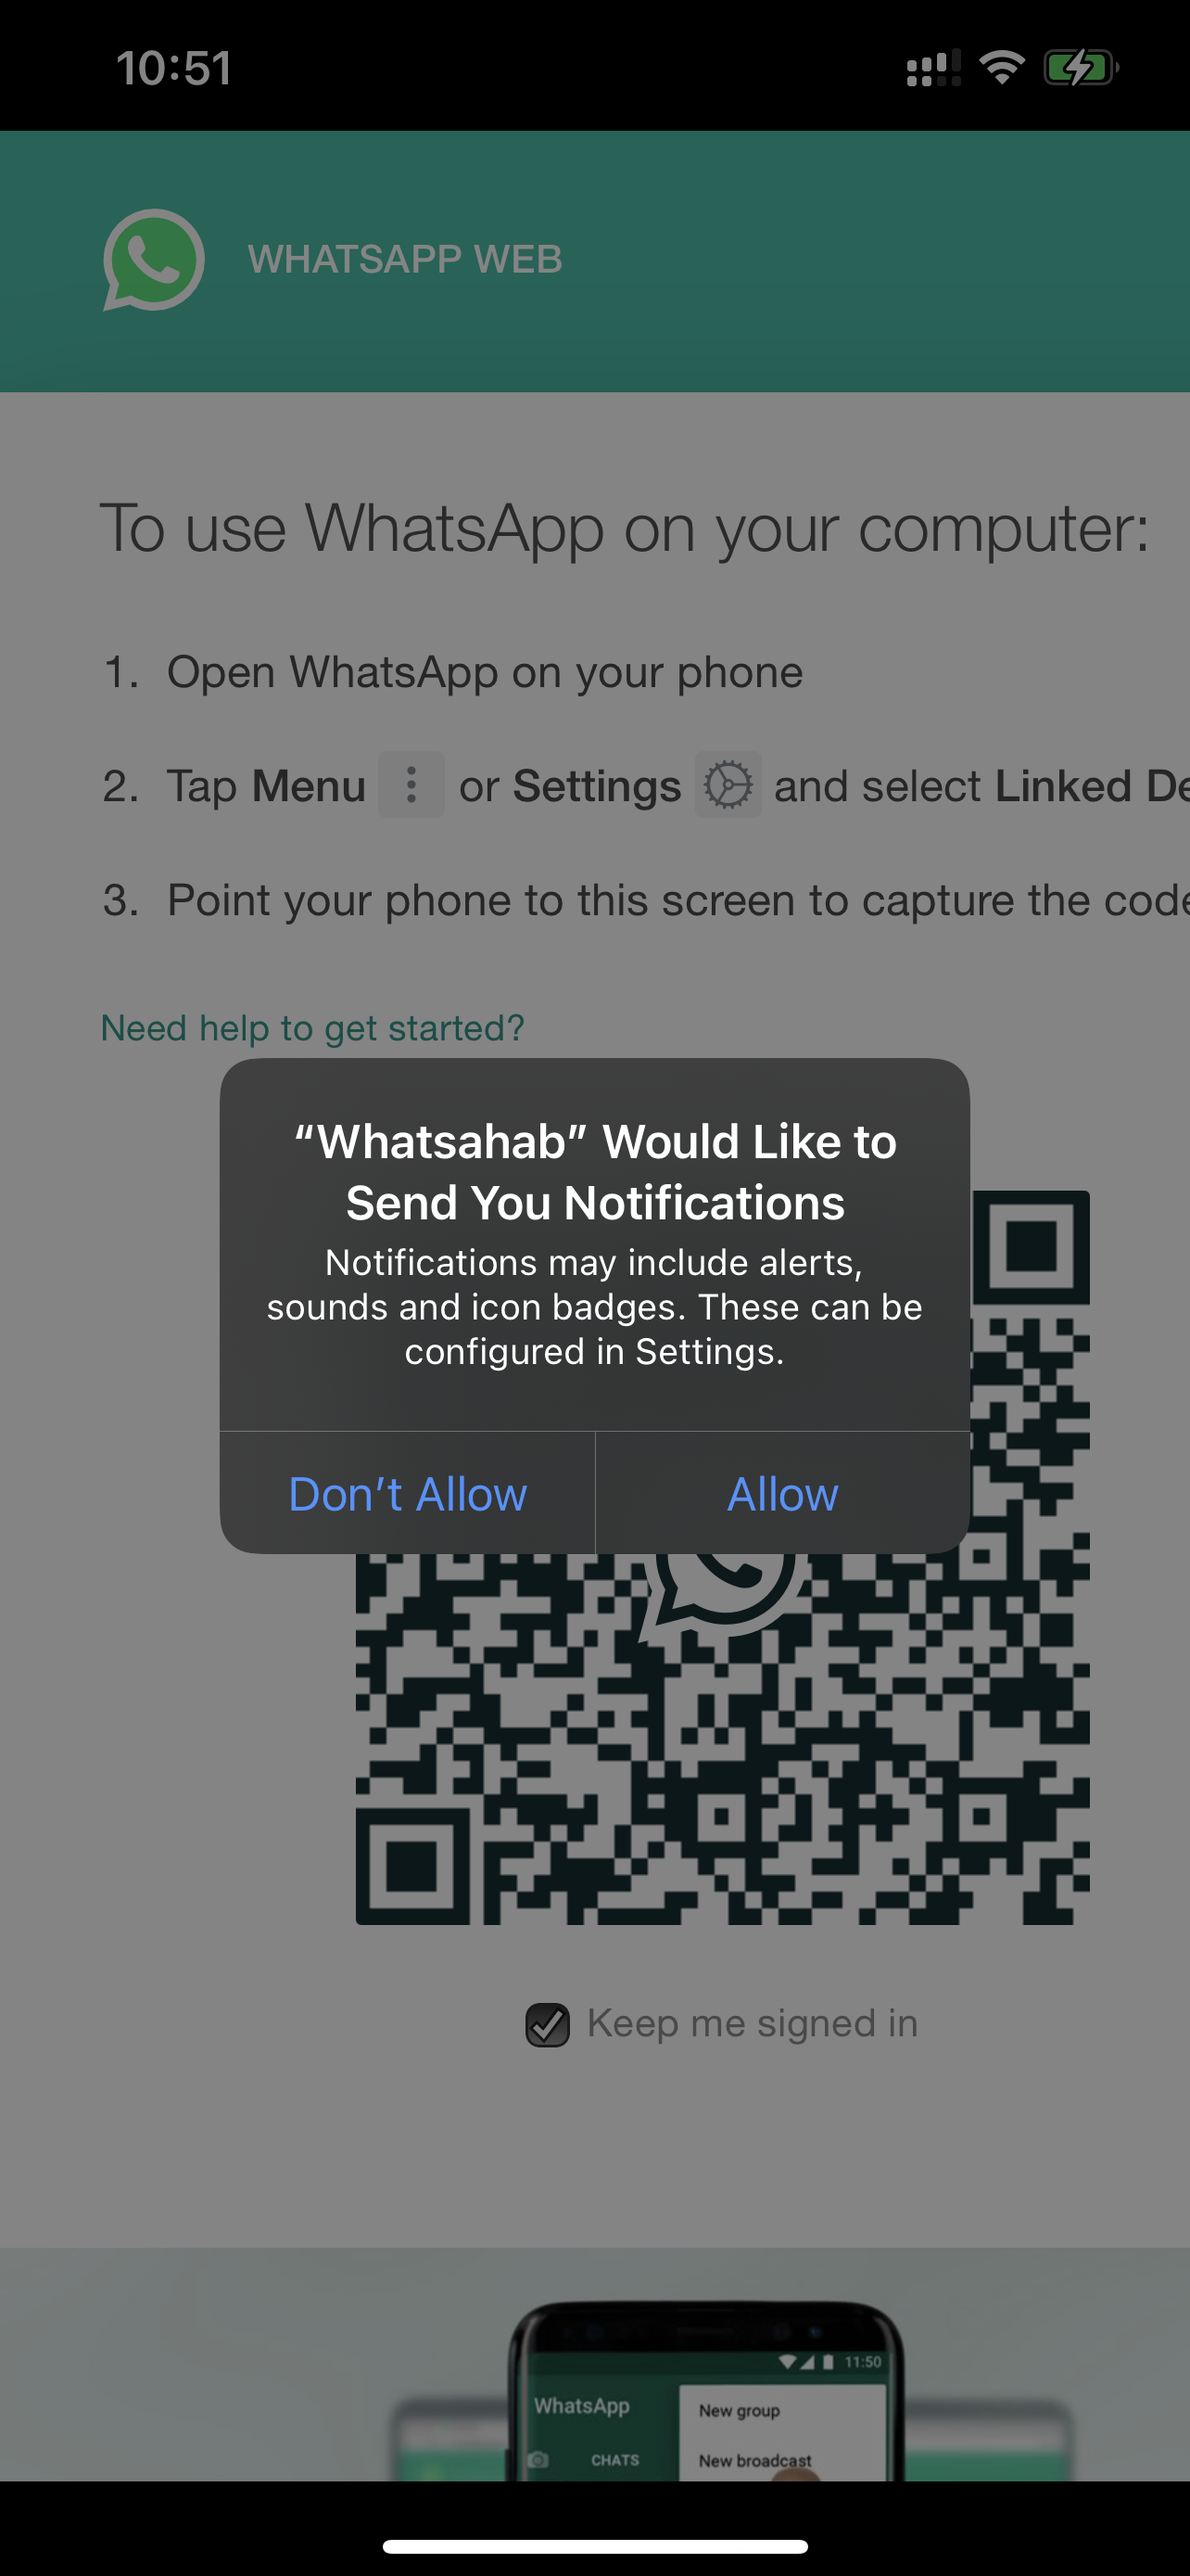
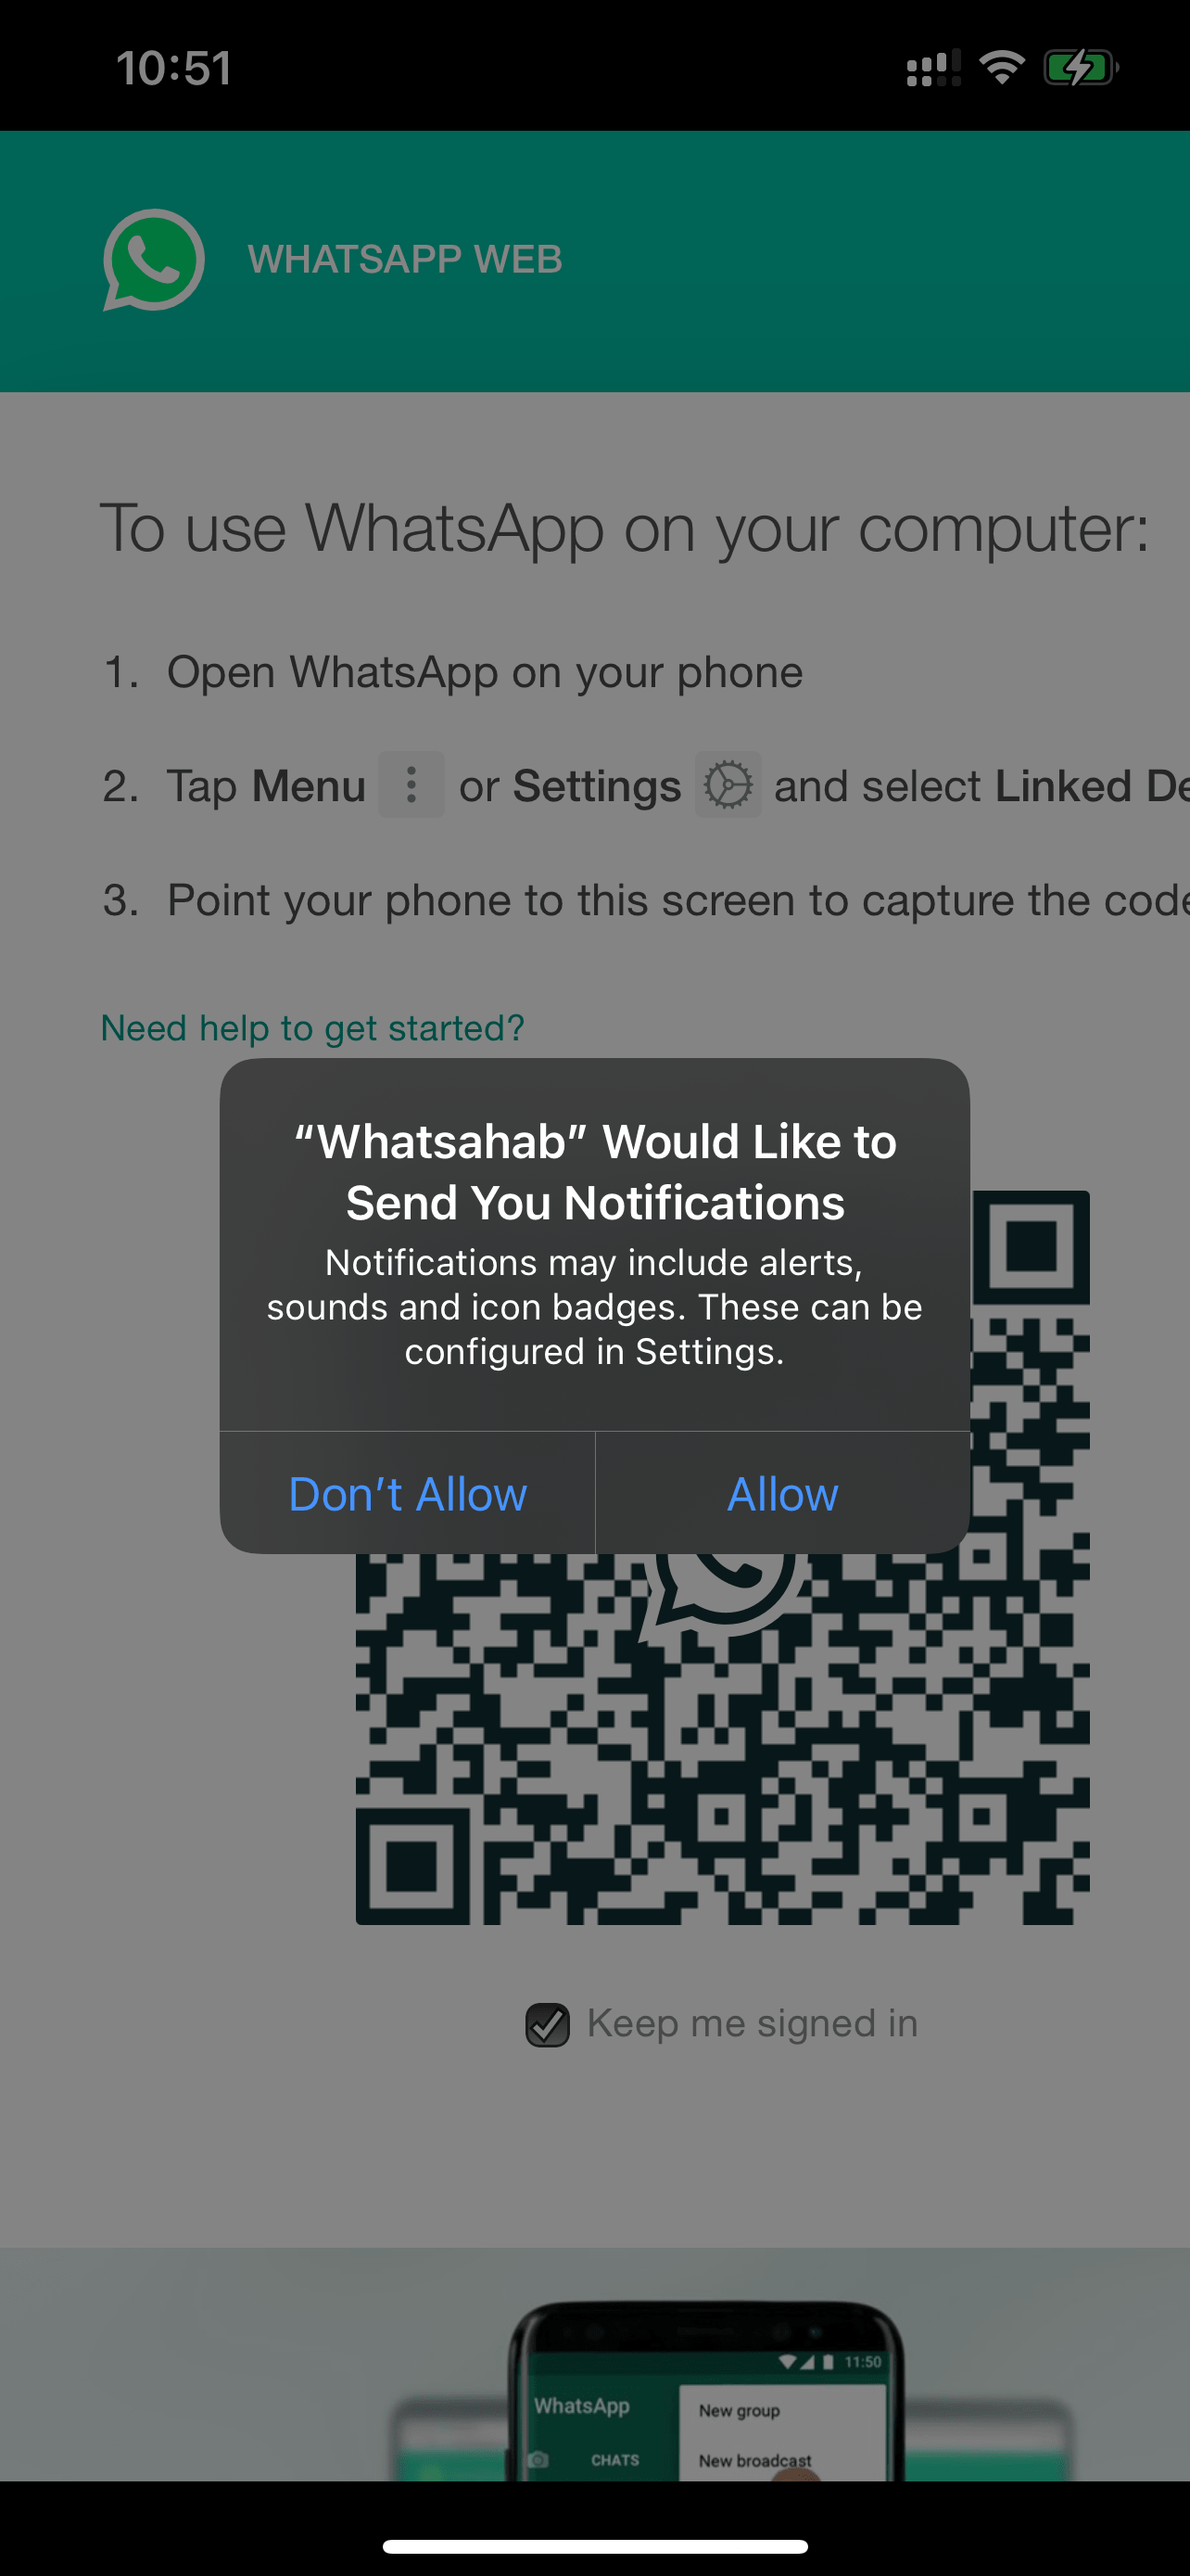
docs: compress screenshots

Changed region(s): [[0.0, 0.0, 1.0, 0.1548], [0.7788, 0.9287, 0.8723, 0.9906]]

diff --git a/README.md b/README.md
@@ -1,6 +1,6 @@
 # Whatsahab
 
-> The name is an internal joke at @SudodevsHQ, feel free to cringe.
+> The name is an internal joke at [@SudodevsHQ](https://github.com/SudodevsHQ), feel free to cringe.
 
 Just a simple webview that wraps web.whatsapp.com (which isn't responsive) and applies mobile styling with some handy gestures.
 
@@ -20,11 +20,11 @@ Very useful for folks shifting to iOS from Android who don't want to lose their 
 
 ## Screenshots
 
-<img height="500" src="./docs/assets/0.png" alt="screen">&nbsp;&nbsp;&nbsp;
-<img height="500" src="./docs/assets/1.png" alt="screen">&nbsp;&nbsp;&nbsp;
+<img height="500" src="./docs/assets/0.PNG" alt="screen">&nbsp;&nbsp;&nbsp;
+<img height="500" src="./docs/assets/1.PNG" alt="screen">&nbsp;&nbsp;&nbsp;
 <br><br>
-<img height="500" src="./docs/assets/2.png" alt="screen">&nbsp;&nbsp;&nbsp;
-<img height="500" src="./docs/assets/3.png" alt="screen">&nbsp;&nbsp;&nbsp;
+<img height="500" src="./docs/assets/2.PNG" alt="screen">&nbsp;&nbsp;&nbsp;
+<img height="500" src="./docs/assets/3.PNG" alt="screen">&nbsp;&nbsp;&nbsp;
 
 ## Features
 
@@ -37,11 +37,11 @@ Very useful for folks shifting to iOS from Android who don't want to lose their 
 
 ## Todo
 
-[ ] Figure out a way to fix the infamous mouseover double click iOS webview issue
-[ ] Figure out a way to persist the webview after locking to recieve notifications
-[ ] Styling the remaining menus
-[ ] Debug sending voice notes
-[ ] Swipe down to reload etc
+- [ ] Figure out a way to fix the infamous mouseover double click iOS webview issue
+- [ ] Figure out a way to persist the webview after locking to recieve notifications
+- [ ] Styling the remaining menus
+- [ ] Debug sending voice notes
+- [ ] Swipe down to reload etc
 
 ## Building
 
